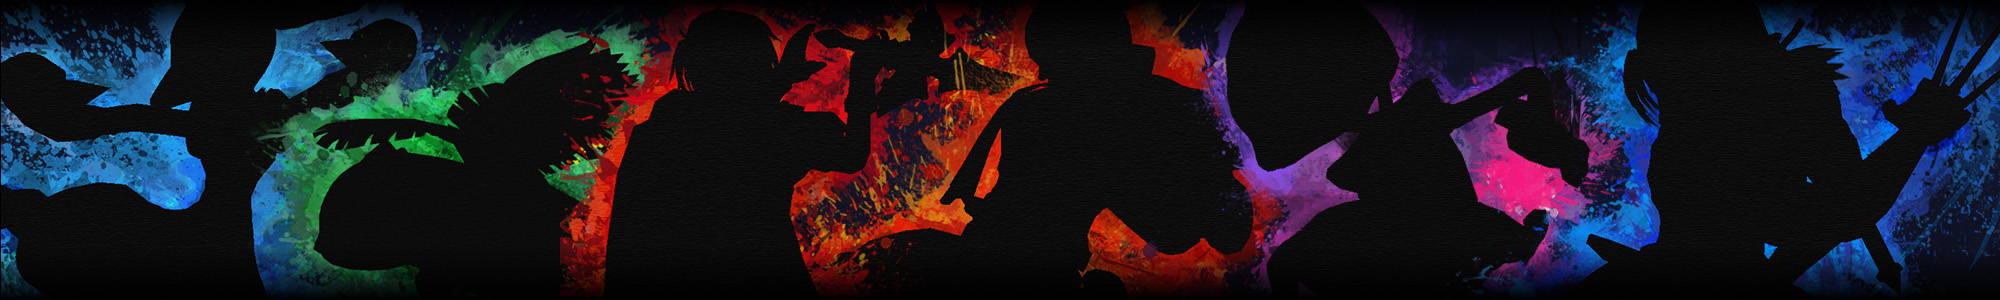
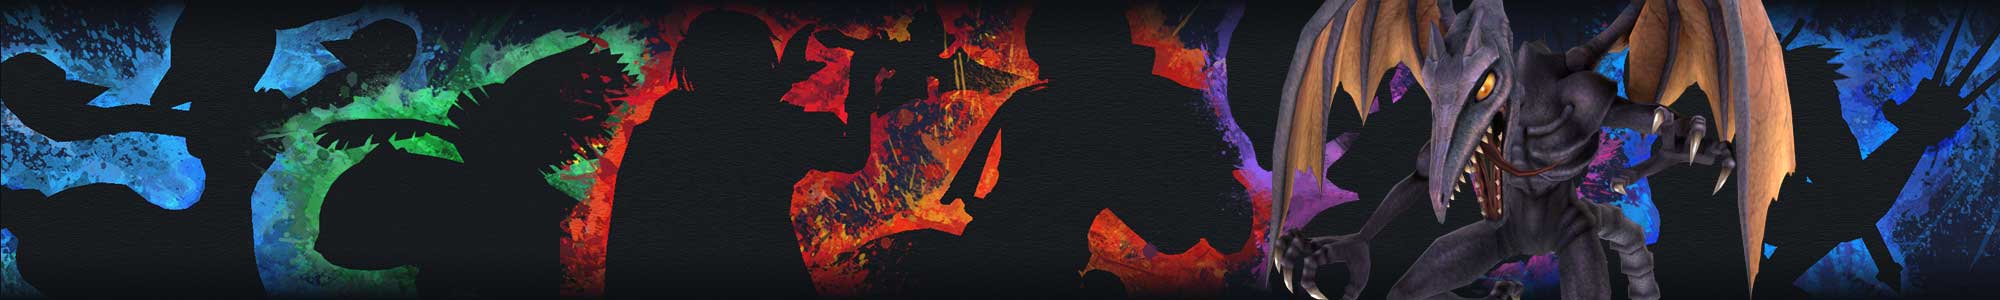
second to last update

diff --git a/index.html b/index.html
@@ -1,11 +1,9 @@
 <!DOCTYPE html>
 <html lang="en"><head><meta http-equiv="Content-Type" content="text/html; charset=UTF-8"><script type="text/javascript" async="" src="./Project M - Charizard_files/ga.js.download"></script><script type="text/javascript" async="" src="./Project%20M%20-%20Charizard_files/ga.js.download"></script><script type="text/javascript" async="" src="./Project%20M%20-%20Charizard_files/ga.js.download"></script>
-<script type="text/javascript">window.addEventListener('DOMContentLoaded',function(){var v=archive_analytics.values;v.service='wb';v.server_name='wwwb-app57.us.archive.org';v.server_ms=427;archive_analytics.send_pageview({});});</script>
 <script type="text/javascript" src="./Project M - Charizard_files/ait-client-rewrite.js.download" charset="utf-8"></script>
 <script type="text/javascript" src="./Project M - Charizard_files/wbhack.js.download" charset="utf-8"></script>
 <link rel="stylesheet" type="text/css" href="./Project M - Charizard_files/banner-styles.css">
 <link rel="stylesheet" type="text/css" href="./Project M - Charizard_files/iconochive.css">
-<!-- End Wayback Rewrite JS Include -->
 
   
   <title>Project M - Ridley</title>
@@ -17,54 +15,35 @@
   <link rel="icon" type="image/png" href="https://web.archive.org/web/20151129030124im_/http://projectmgame.com:80/assets/images/fav-icon.png">
   <link href="./Project M - Charizard_files/styles.css" rel="stylesheet" type="text/css">
   <link rel="stylesheet" href="./Project M - Charizard_files/960.css">
-  <script src="./Project M - Charizard_files/jquery.js.download"></script><style>@media print {#ghostery-purple-box {display:none !important}}</style>
+  <script src="./Project M - Charizard_files/jquery.js.download"></script>
   <script src="./Project M - Charizard_files/jquery.cycle.lite.js.download"></script>
   <script src="./Project M - Charizard_files/chart.js.download"></script>
   <link href="./Project M - Charizard_files/css" rel="stylesheet" type="text/css">
   </head>
 
-<body style=""><!-- BEGIN WAYBACK TOOLBAR INSERT -->
-<script type="text/javascript" src="./Project M - Charizard_files/timestamp.js.download" charset="utf-8"></script>
-<script type="text/javascript" src="./Project M - Charizard_files/graph-calc.js.download" charset="utf-8"></script>
-<script type="text/javascript" src="./Project M - Charizard_files/auto-complete.js.download" charset="utf-8"></script>
-<script type="text/javascript" src="./Project M - Charizard_files/toolbar.js.download" charset="utf-8"></script>
+<body>
 <style type="text/css">
 body {
   margin-top:0 !important;
   padding-top:0 !important;
   /*min-width:800px !important;*/
 }
-.wb-autocomplete-suggestions {
-    text-align: left; cursor: default; border: 1px solid #ccc; border-top: 0; background: #fff; box-shadow: -1px 1px 3px rgba(0,0,0,.1);
-    position: absolute; display: none; z-index: 2147483647; max-height: 254px; overflow: hidden; overflow-y: auto; box-sizing: border-box;
-}
-.wb-autocomplete-suggestion { position: relative; padding: 0 .6em; line-height: 23px; white-space: nowrap; overflow: hidden; text-overflow: ellipsis; font-size: 1.02em; color: #333; }
-.wb-autocomplete-suggestion b { font-weight: bold; }
-.wb-autocomplete-suggestion.selected { background: #f0f0f0; }
+a{ font-weight:700!important; }
 </style>
-<script type="text/javascript">
-__wm.bt(600,27,25,2,"web","http://projectmgame.com:80/en/characters/charizard","2015-11-29",1996);
-</script><div class="wb-autocomplete-suggestions "></div><div class="wb-autocomplete-suggestions " style="left: 17px; top: 22px; width: 675px;"></div>
-<!-- END WAYBACK TOOLBAR INSERT -->
 
 	<header style="background-image:url('new.jpg'); background-size:cover;">
-		<div class="logo"><a href="http://www.reddit.com/r/SSBPM"><img src="./Project M - Charizard_files/logo2.png" alt="Project M"></a></div>
+		<div class="logo"><a style="width: 940px;" href="index.html"><img src="./Project M - Charizard_files/logo2.png" alt="Project M"></a></div>
 	</header><div class="menu_div">
 	<nav class="menu container_12">
 	  <ul>
-				<!-- <li><a href="https://web.archive.org/web/20151129030124/http://projectmgame.com/en/">Home</a></li> -->
-				<li><a class="active" href="#">About</a></li>
-				<li><a href="#">Download (Dropbox)</a></li>
-				<li><a  href="#">Pre-made PMEx build (MEGA)</a></li>
-				<!-- <li><a href="https://web.archive.org/web/20151129030124/http://projectmgame.com/en/stages">Stages</a></li>
-				<li><a href="https://web.archive.org/web/20151129030124/http://projectmgame.com/en/streams">Streams</a></li> -->
+				<li><a class="active" href="index.html">About</a></li>
+				<li><a href="download.html">Download</a></li>
 			  </ul>
 	</nav>
 
 </div>
 
 <div class="versions">
-	<div class="publicVersion">Current Public Version: 3.6</div>
 </div>
 
 
@@ -80,35 +59,38 @@ $( "#devVersNum" ).load( "/version.php", function() {
 		<article class="content char_page grid_12">
 			<h1>Ridley</h1>
 			<section>
-				<p><img src="./ridley-featured.jpg" class="char_img"></p>
+				<p><img style="margin-top:20px;" src="./ridley-featured.jpg" class="char_img"></p>
 
-<h1>OVERVIEW</h1>
+<h1 style="margin-top:20px;">OVERVIEW</h1>
 
-<p>The ferocious, sadistic, and cunning space dragon joins the battle in Project M! With razor sharp claws, unmatchable size and reach, and a stellar recovery, Ridley is a beast that should not be underestimated. Built from the ground up, this new Classic Ridley mod aims to fit Ridley seamlessly into Project M.</p>
-
-<p><br><clear></clear></p>
-
-<div id="slideshow1" class="char_slides">
-<img src="./Project M - Charizard_files/01.png" style="position: absolute; top: 0px; z-index: 3; opacity: 1;">
-<img src="./Project M - Charizard_files/02.png" style="position: absolute; top: 0px; z-index: 2; display: none; opacity: 1;">
-<img src="./Project M - Charizard_files/03.png" style="position: absolute; top: 0px; z-index: 1; display: none; opacity: 0;">
-</div>
-
-<h1>SPACE PIRATE RUSHDOWN</h1>
-
-<p>Ridley’s side special is his most unique trait, giving him the ability to rush at opponents, grab them, and carry them in the air a short distance before throwing them in 4 possible directions. This move is a go to combo starter to catch opponents off guard and set them up for a fatal finisher. Each throw has a special purpose for mixing opponents up in the air, for example his down throw in the air can meteor an opponent after being dragged off stage. Experimenting with side special in different situations will put Ridley players a cut above the rest, but be careful not to be too predictable as it has a punishing cooldown if you miss.</p>
+<p style="margin-top:20px;">The ferocious, sadistic, and cunning space dragon joins the battle in Project M! With razor sharp claws, unmatchable size and reach, and a stellar recovery, Ridley is a beast that should not be underestimated. Built from the ground up, this new Classic Ridley mod aims to fit Ridley seamlessly into Project M.</p>
 
 <p><br><clear></clear></p>
 
-<div id="slideshow2" class="char_slides">
-<img src="./Project M - Charizard_files/04.png" style="position: absolute; top: 0px; z-index: 3; opacity: 1;">
-<img src="./Project M - Charizard_files/05.png" style="position: absolute; top: 0px; z-index: 2; display: none; opacity: 1;">
-<img src="./Project M - Charizard_files/06.png" style="position: absolute; top: 0px; z-index: 1; display: none; opacity: 0;">
+<div style="margin-top:40px;" id="slideshow1" class="char_slides">
+<img src="./ridley-grab1.jpg" style="position: absolute; top: 0px; z-index: 6; opacity: 1;">
+<img src="./ridley-grab2.jpg" style="position: absolute; top: 0px; z-index: 5; display: none; opacity: 1;">
+<img src="./ridley-grab3.jpg" style="position: absolute; top: 0px; z-index: 4; display: none; opacity: 1;">
+<img src="./ridley-grab4.jpg" style="position: absolute; top: 0px; z-index: 3; display: none; opacity: 1;">
+<img src="./ridley-grab5.jpg" style="position: absolute; top: 0px; z-index: 2; display: none; opacity: 1;">
+<img src="./ridley-grab6.jpg" style="position: absolute; top: 0px; z-index: 1; display: none; opacity: 0;">
 </div>
 
-<h1>MENACE OF THE SKIES</h1>
+<h1 style="margin-top:40px;">ORBITAL PLUNDER</h1>
 
-<p>Ridley’s aerial game is top notch with insane juggle potential, an exceptional recovery, and strong finishing moves. His forward air applies ruthless pressure while his back air scoops up his foes for extended combos. With down air, Ridley can safely bounce off opponents to set up for more juggles or meteor them if he spaces it closer to the opponent. Juggling opponents to the sky with up air, Ridley can use his devastating up special to quickly finish stocks if spaced right.</p>
+<p style="margin-top:20px;">Ridley’s side special is his most unique trait, giving him the ability to rush at opponents, grab them, and carry them in the air a short distance before throwing them in 4 possible directions. This move is a go to combo starter to catch opponents off guard and set them up for a fatal finisher. Each throw has a special purpose for mixing opponents up in the air, for example his down throw in the air can meteor an opponent after being dragged off stage. Experimenting with side special in different situations will put Ridley players a cut above the rest, but be careful not to be too predictable as it has a punishing cooldown if you miss.</p>
+
+<p><br><clear></clear></p>
+
+<div style="margin-top:40px;" id="slideshow2" class="char_slides">
+<img src="./ridley-skies1.jpg" style="position: absolute; top: 0px; z-index: 3; display: none; opacity: 1;">
+<img src="./ridley-skies2.jpg" style="position: absolute; top: 0px; z-index: 2; display: none; opacity: 1;">
+<img src="./ridley-skies3.jpg" style="position: absolute; top: 0px; z-index: 1; display: none; opacity: 0;">
+</div>
+
+<h1 style="margin-top:40px;">MENACE OF THE SKIES</h1>
+
+<p style="margin-top:20px;">Ridley’s aerial game is top notch with insane juggle potential, an exceptional recovery, and strong finishing moves. His forward air applies ruthless pressure while his back air scoops up his foes for extended combos. With down air, Ridley can safely bounce off opponents to set up for more juggles or meteor them if he spaces it closer to the opponent. Juggling opponents to the sky with up air, Ridley can use his devastating up special to quickly finish stocks if spaced right.</p>
 
 <p><br>Along with fierce aerials, Ridley can use his neutral special to charge a deadly fireball, akin to Samus’ own charge shot. This fireball can even be charged in the air and pressing jump while charging lets Ridley hover slightly, giving him a way to retreat to the skies and apply pressure with projectiles.</p>
 
@@ -119,14 +101,15 @@ $( "#devVersNum" ).load( "/version.php", function() {
 
 <p><br><clear></clear></p>
 
-<div id="slideshow3" class="char_slides">
-<img src="./Project M - Charizard_files/07.png" style="position: absolute; top: 0px; z-index: 3; opacity: 1;">
-<img src="./Project M - Charizard_files/08.png" style="position: absolute; top: 0px; z-index: 2; display: none; opacity: 1;">
-<img src="./Project M - Charizard_files/09.png" style="position: absolute; top: 0px; z-index: 1; display: none; opacity: 0;"></div>
+<div style="margin-top:40px;" id="slideshow3" class="char_slides">
+<img src="./ridley-size2.jpg" style="position: absolute; top: 0px; z-index: 3; display: none; opacity: 1;">
+<img src="./ridley-size1.jpg" style="position: absolute; top: 0px; z-index: 2; display: none; opacity: 1;">
+<img src="./ridley-size3.jpg" style="position: absolute; top: 0px; z-index: 1; display: none; opacity: 0;">
+</div>
 
-<h1>SIZE MATTERS</h1>
+<h1 style="margin-top:40px;">SIZE MATTERS</h1>
 
-<p>While Ridley is an intimidating foe, his size is a double-edged sword that both helps and hurts him. He might have extra reach and a vicious combo game, but his size makes him vulnerable to anyone capable of challenging his immense range. With clever use of spacing and his own projectile, a cunning Ridley player can outwit an unprepared opponent. To utilize Ridley’s potential, one must find openings with smartly placed aerials, tricky side specials, and cold-blooded edgeguards.</p>
+<p style="margin-top:20px;">While Ridley is an intimidating foe, his size is a double-edged sword that both helps and hurts him. He might have extra reach and a vicious combo game, but his size makes him vulnerable to anyone capable of challenging his immense range. With clever use of spacing and his own projectile, a cunning Ridley player can outwit an unprepared opponent. To utilize Ridley’s potential, one must find openings with smartly placed aerials, tricky side specials, and cold-blooded edgeguards.</p>
 
 <p><clear></clear></p>
 			</section>
@@ -173,32 +156,8 @@ $( "#devVersNum" ).load( "/version.php", function() {
 	</script>
   
   <footer>
-    <p>Copyright © 2010-2015 Project M Dev Team.</p>
-	Site powered by <a href="http://getkirby.com/">Kirby</a> <img src="./Project M - Charizard_files/brawl_kirby.png" style="margin-bottom: -4px;">
+    <p>Classic Ridley Balance Overhaul mod made by: KingJigglypuff.</p>
+    <p>Original Classic Ridley mod made by: BaganSmashBros. Blog made by: SOJ.</p>
+    <p><a href="Credits.txt">Full Credits</a> | <a href="https://smashboards.com/threads/kingjigglypuffs-project-m-throne-room-11-22-2018-fighting-alloy-team-finally-released.393855/">Smashboards Thread</a> | <a href="http://forums.kc-mm.com/index.php?topic=21724.0">KC:MM Thread</a> | <a href="http://www.smashbroslegacy.com/legacy-xp.html">Legacy XP</a></p>
   </footer>
- 
-<script>
-	var rnd = Math.random();
-	if(rnd < (0.02127659574468085 + .04 + .07)) {
-		console.log("Debug A " + rnd + "|" + (0.02127659574468085 + .04 + .07));
-	} else {
-		console.log("Debug B " + rnd + "|" + (0.02127659574468085 + .04 + .07));
-	}
-</script>
- 
-
-
-
-<!--
-playback timings (ms):
-  LoadShardBlock: 157.126 (3)
-  esindex: 0.01
-  captures_list: 179.109
-  CDXLines.iter: 16.235 (3)
-  PetaboxLoader3.datanode: 107.936 (4)
-  exclusion.robots: 0.451
-  exclusion.robots.policy: 0.434
-  RedisCDXSource: 1.631
-  PetaboxLoader3.resolve: 245.339 (3)
-  load_resource: 230.998
---></body></html>
+</body></html>

diff --git a/download.html b/download.html
@@ -1,0 +1,121 @@
+<!DOCTYPE html>
+<html lang="en"><head><meta http-equiv="Content-Type" content="text/html; charset=UTF-8"><script type="text/javascript" async="" src="./Project M - Charizard_files/ga.js.download"></script><script type="text/javascript" async="" src="./Project%20M%20-%20Charizard_files/ga.js.download"></script><script type="text/javascript" async="" src="./Project%20M%20-%20Charizard_files/ga.js.download"></script>
+<script type="text/javascript" src="./Project M - Charizard_files/ait-client-rewrite.js.download" charset="utf-8"></script>
+<script type="text/javascript" src="./Project M - Charizard_files/wbhack.js.download" charset="utf-8"></script>
+<link rel="stylesheet" type="text/css" href="./Project M - Charizard_files/banner-styles.css">
+<link rel="stylesheet" type="text/css" href="./Project M - Charizard_files/iconochive.css">
+
+  
+  <title>Project M - Ridley</title>
+  
+  <meta name="description" content="Project M is a community-made mod of Brawl inspired by Super Smash Bros. Melee&#39;s gameplay designed to add rich, technical gameplay to a balanced cast of characters while additionally enhancing the speed of play.">
+  <meta name="keywords" content="smash bros, melee, brawl, competitive, fighter">
+  <meta name="robots" content="index, follow">
+
+  <link rel="icon" type="image/png" href="https://web.archive.org/web/20151129030124im_/http://projectmgame.com:80/assets/images/fav-icon.png">
+  <link href="./Project M - Charizard_files/styles.css" rel="stylesheet" type="text/css">
+  <link rel="stylesheet" href="./Project M - Charizard_files/960.css">
+  <script src="./Project M - Charizard_files/jquery.js.download"></script>
+  <script src="./Project M - Charizard_files/jquery.cycle.lite.js.download"></script>
+  <script src="./Project M - Charizard_files/chart.js.download"></script>
+  <link href="./Project M - Charizard_files/css" rel="stylesheet" type="text/css">
+  </head>
+
+<body>
+<style type="text/css">
+body {
+  margin-top:0 !important;
+  padding-top:0 !important;
+  /*min-width:800px !important;*/
+}
+a{ font-weight:700!important; }
+</style>
+
+	<header style="background-image:url('new.jpg'); background-size:cover;">
+		<div class="logo"><a style="width: 940px;" href="index.html"><img src="./Project M - Charizard_files/logo2.png" alt="Project M"></a></div>
+	</header><div class="menu_div">
+	<nav class="menu container_12">
+	  <ul>
+				<li><a href="index.html">About</a></li>
+				<li><a class="active" href="download.html">Download</a></li>
+			  </ul>
+	</nav>
+
+</div>
+
+<div class="versions">
+</div>
+
+
+<script type="text/javascript">
+$( "#devVersNum" ).load( "/version.php", function() {
+});
+</script>
+<div class="main" style="background-image:url('bg-galaxy3-6.png'); background-size:cover;">
+
+	<div class="container_12">
+	
+		
+		<article class="content char_page grid_12">
+			<h1>Download</h1>
+			<section>
+				<h1 style="margin-top:10px;">Individual Files</h1>
+
+                <p style="margin-top:20px;"><a href="https://www.dropbox.com/s/r686rlfarnbth3c/Classic%20Ridley%20Balance%20Overhaul.zip?dl=0">Download (Dropbox)</a></p>
+
+                <h1 style="margin-top:20px;">Pre-made PMEx Build</h1>
+                <p style="margin-top:20px;"><a href="https://mega.nz/#!MphljKxA!rZp2fJiOTEt7FikYeoR4bSGOKGmZV0IRCHl6qjhT4Eo">Download (MEGA)</a><br>
+                Note: This build comes with an sd.raw that you can use with Dolphin.</p>
+
+                <h1 style="margin-top:20px;">Other Resources</h1>
+                <p style="margin-top:20px;"><a href="brawlvault.com">Brawlvault</a> | <a href="https://smashboards.com/threads/kingjigglypuffs-project-m-throne-room-11-22-2018-fighting-alloy-team-finally-released.393855/">Smashboards Thread</a> | <a href="http://forums.kc-mm.com/index.php?topic=21724.0">KC:MM Thread</a> | <a href="http://www.smashbroslegacy.com/legacy-xp.html">Legacy XP</a></p>
+                <p><br></p>
+			</section>
+		</article>
+						
+		<script type="text/javascript">
+			$(document).ready(function() {
+				$("[id^=slideshow]").cycle({
+					fx: 'fade' // choose your transition type, ex: fade, scrollUp, shuffle, etc...
+				});
+			});
+		</script>
+		
+		<script type="text/javascript">		
+	$(document).ready(function(){
+		if(localStorage.scrollPos) {
+			$("html").scrollTop(localStorage.scrollPos);
+			$("body").scrollTop(localStorage.scrollPos);
+		}
+	
+		$(window).unload(function(){
+			if(typeof(Storage)!=="undefined") {
+				localStorage.scrollPos = $(window).scrollTop();	
+			}
+		})
+	})
+</script>		
+	</div>
+
+</div>
+
+  <script type="text/javascript">
+	$(document).ready(function(){
+		$('.collapse').hide();
+	});
+
+	$('.change_icon').click(function(e) {
+	      $( this ).siblings('.collapse').toggle();
+	});
+
+        $('.change_title').click(function(e) {
+	      $( this ).siblings('.collapse').toggle();
+	});
+	</script>
+  
+  <footer>
+    <p>Classic Ridley Balance Overhaul mod made by: KingJigglypuff.</p>
+    <p>Original Classic Ridley mod made by: BaganSmashBros. Blog made by: SOJ.</p>
+    <p><a href="Credits.txt">Full Credits</a> | <a href="https://smashboards.com/threads/kingjigglypuffs-project-m-throne-room-11-22-2018-fighting-alloy-team-finally-released.393855/">Smashboards Thread</a> | <a href="http://forums.kc-mm.com/index.php?topic=21724.0">KC:MM Thread</a> | <a href="http://www.smashbroslegacy.com/legacy-xp.html">Legacy XP</a></p>
+  </footer>
+</body></html>
